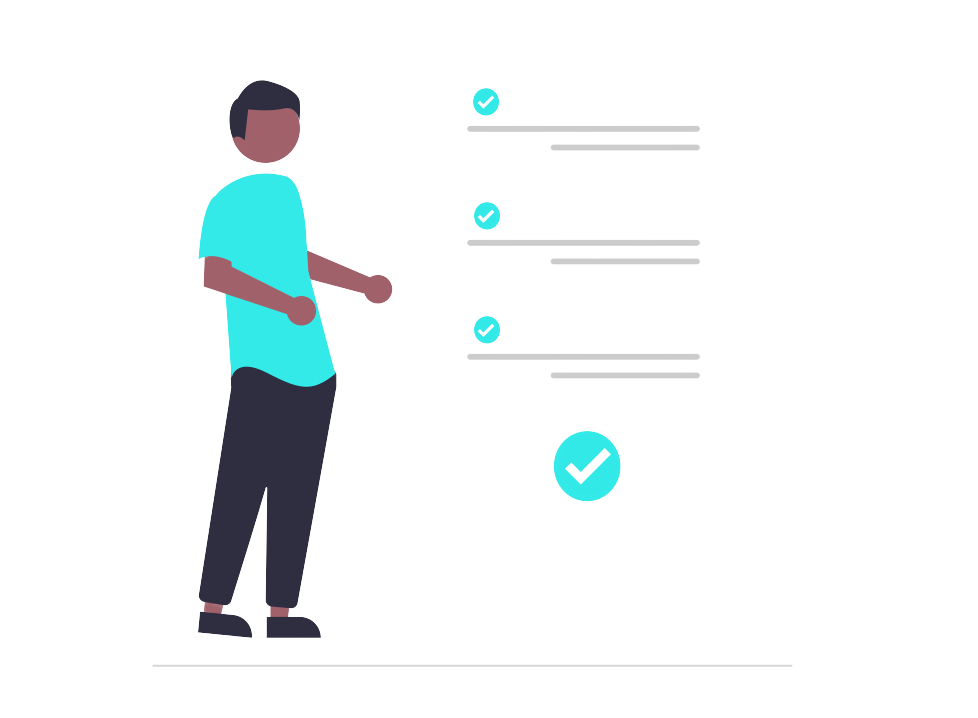
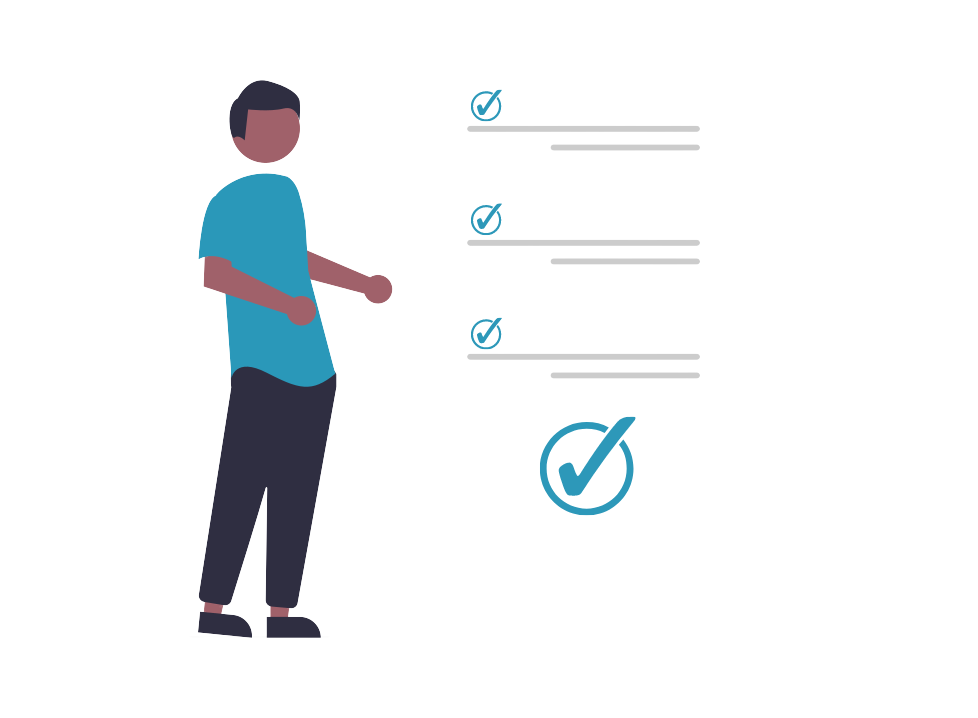
att

diff --git a/exercicios/Lista/style.css b/exercicios/Lista/style.css
@@ -1,9 +1,9 @@
 @charset "UTF-8";
 
 :root{
-  --cordestaque: #35E7E6;
-  --corfundo: rgba(238, 238, 238, 0.445);
-  --corpadrao: #2F2E41;
+  --cordestaque: #2A98B9;
+  --corfundo: #105d740c;
+  --corpadrao: #2A98B9;
 
 }
 
@@ -26,6 +26,10 @@ em{
   cursor: pointer;
 }
 
+input{
+  padding-left: 10px;
+}
+
 .container{
   display: flex;
   background-color: white;
@@ -37,19 +41,31 @@ em{
 }
 
 .titleLista{
-  color: var(--corpadrao);
   font-size: 2em;
 }
 
+h1, h2{
+  color: var(--corpadrao);
+  padding-left: 15px;
+}
+
 .intro{
-  padding: 0;
+  padding-right: 40px;
   margin: 0px;
   color: var(--cordestaque);
   font-size: 2.2em;
+  text-align: center;
+}
+
+aside{
+  display: flex;
+  flex-direction: column;
+  justify-content: center;
+  padding-bottom: 50px;
 }
 
 aside p{
-  max-width: 400px;
+  max-width: 450px;
   font-size: 1.4em;
 }
 
@@ -63,10 +79,6 @@ aside p{
   border: 1px solid darkgray;
   padding: 15px;
   border-top: none;
-}
-
-.titleLista{
-  padding-left: 15px;
 }
 
 .grid{
@@ -112,11 +124,6 @@ li{
   background-color: var(--corfundo);
   border-radius: 10px 10px 0 0;
   margin-top: 20px;
-}
-
-h2{
-  padding-left: 15px;
-  color:#2F2E41;
 }
 
 .border{

diff --git a/exercicios/Lista/index.html b/exercicios/Lista/index.html
@@ -13,7 +13,7 @@
       <img src="img/lista.png" class="img" alt="Ilustração de uma lista">
       <aside>
         <h1 class="intro">Bem vindo a <em>MyList</em></h1>
-        <p>Lista foi criado, com o intuito de facilitar o seu dia a dia, ajudando a organizar suas tarefas diárias.</p>
+        <p>MyLista foi criado, com o intuito de facilitar o seu dia a dia, ajudando a organizar suas tarefas diárias.</p>
       </aside>
     </header>
 

diff --git a/README.md b/README.md
@@ -27,6 +27,10 @@
  ✓ Working With Mongoose! <br>
  ✓ Working With TypeScript! <br>
  ✓ Working With React! <br>
+ ✓ Working With React-Redux! <br>
+ ✓ Working With React-Dom! <br>
+ ✓ Working With React-Icons! <br>
+ ✓ Working With Axios! <br>
 
  <h1>✅Projects</h1>
  <h3>📚 Relógio</h3> 
@@ -52,6 +56,8 @@
  Ferramentas usadas: functions
  <h2></h2>
 
-<h3>📚 Projeto: <a href="https://sylu4n.github.io/JsUdemy/exercicios/Lista/index.html">MyList.</a></h3>
-
-
+<h3>📚 Lista</h3> 
+<a href="https://sylu4n.github.io/JsUdemy/exercicios/Lista/index.html">MyList.</a> 
+<img src="./imgReadme/lista.gif" alt="Funcionamento da Lista"></a>
+ Ferramentas usadas: functions / JSON / LocalStorage  
+ <h2></h2>
